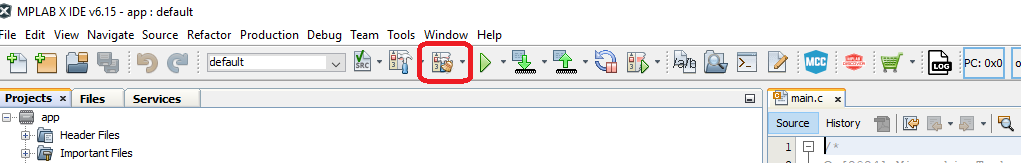
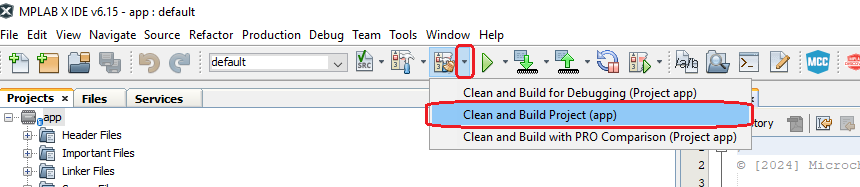
Update instructions for clean and build in 6.15

diff --git a/secure_boot_and_secure_firmware_upgrade_over_canfd/README.md b/secure_boot_and_secure_firmware_upgrade_over_canfd/README.md
@@ -60,7 +60,7 @@ The associated bootloader and application projects demonstrate the following:
 ![Force Update](./images/MCC_Force_Update.png)
 4. Click "Generate"<br>
 ![Generate](./images/MCC_Generate.png)
-5. Accept all incoming code changes for files **within the CryptoAuthenticationLibrary directory** by selecting "Replace All" in the merge helper UI. **NOTE: DO NOT accept incoming changes for boot_demo.c. Accept all other file changes and close out of MCC**<br>
+5. Accept all incoming code changes for files **within the CryptoAuthenticationLibrary directory** by selecting "Replace All" in the merge helper UI<br> **NOTE: DO NOT accept incoming changes for boot_demo.c. Accept all other file changes and close out of MCC**<br>
 ![Merge Resolution](./images/MCC_Merge_Resolution.png)
 6. Press the “Make and Program” button on the top bar<br>
 ![Make and Program Device](./images/make_and_program.png)
@@ -70,7 +70,7 @@ The associated bootloader and application projects demonstrate the following:
     
 #### Building the Application
 1. Open the app.X project in MPLAB® X
-2. Press the “Clean and Build Project” button on the top bar. **NOTE**: Make sure not to hit the program button. This will program the application code over the bootloader that was just programmed<br>
+2. Click the dropdown arrow next to the “Clean and Build Project” button on the top bar and select "Clean and Build Project" <br>**NOTE**: If "Clean and Build for Debugging" is selected instead, a new hex file will not be generated <br>**NOTE**: Make sure not to hit the program button. This will program the application code over the bootloader that was just programmed<br>
 ![Clean and Build](./images/clean_and_build.png)
 3. The project should compile cleanly. app.X/dist/default/production/app.X.production.hex should be generated
 4. Verify that LED11 is still solid
@@ -103,7 +103,7 @@ The associated bootloader and application projects demonstrate the following:
 ![Open Hex File](./images/UBHA_Open_Hex.png)
 8. Check the "Enable Self Verification After Program" checkbox<br>
 ![Enable Verification](./images/UBHA_Enable_Verification.png)
-9. Press “Program Device”. The application should program erase, program and perform a self verify using the TA100 for an ECDSA verify then read back verify correctly. Note: The reset response may not be fully transmitted before reset which may result in the reset response failing. The reset most likely did occur and the error can be safely ignored. 
+9. Press “Program Device”. The application should program erase, program and perform a self verify using the TA100 for an ECDSA verify then read back verify correctly.<br>**NOTE**: The reset response may not be fully transmitted before reset which may result in the reset response failing. The reset most likely did occur and the error can be safely ignored 
     a. After a few seconds, LED11 should be blinking<br>
 ![Program Device](./images/UBHA_Program.png)
 
